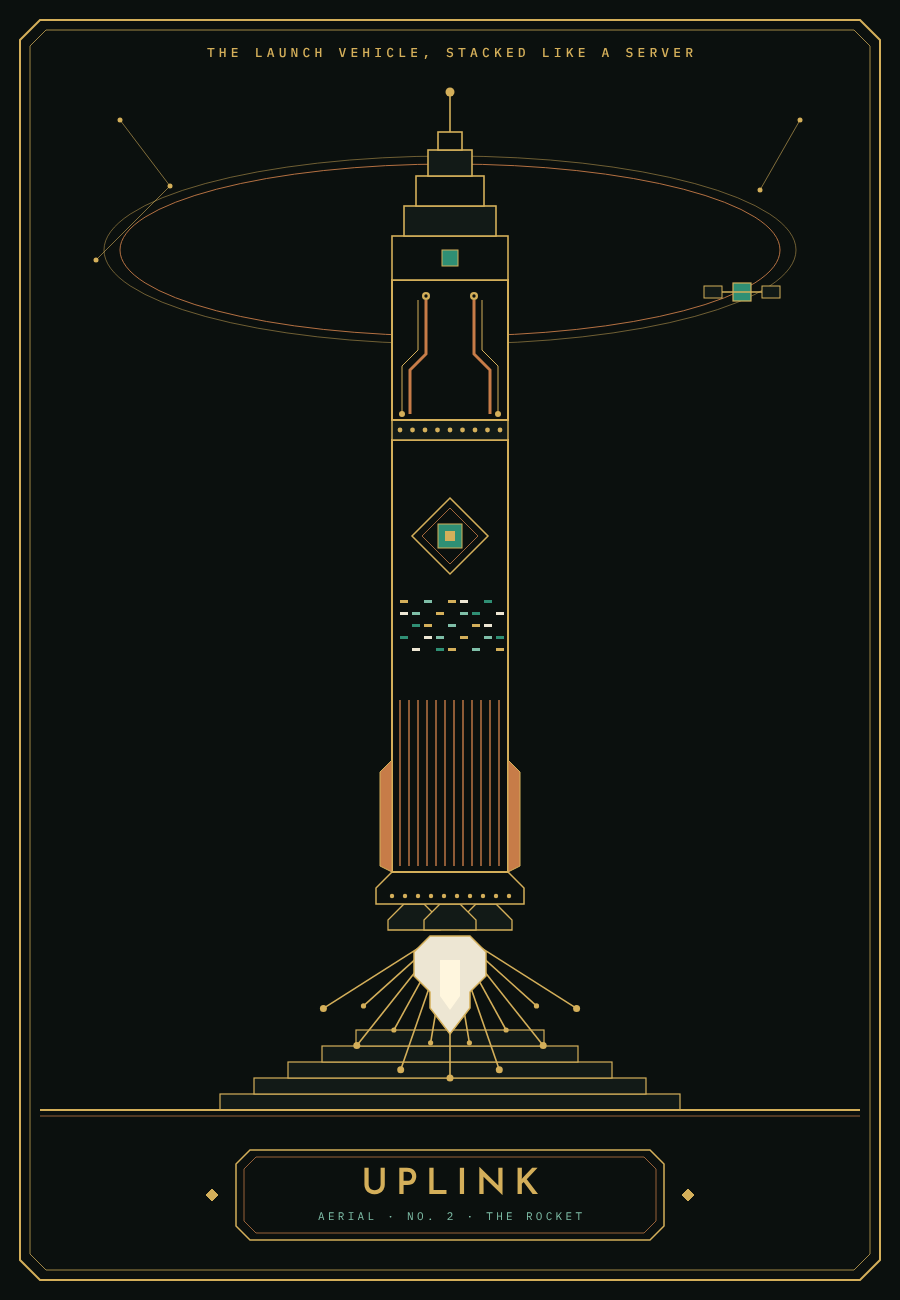
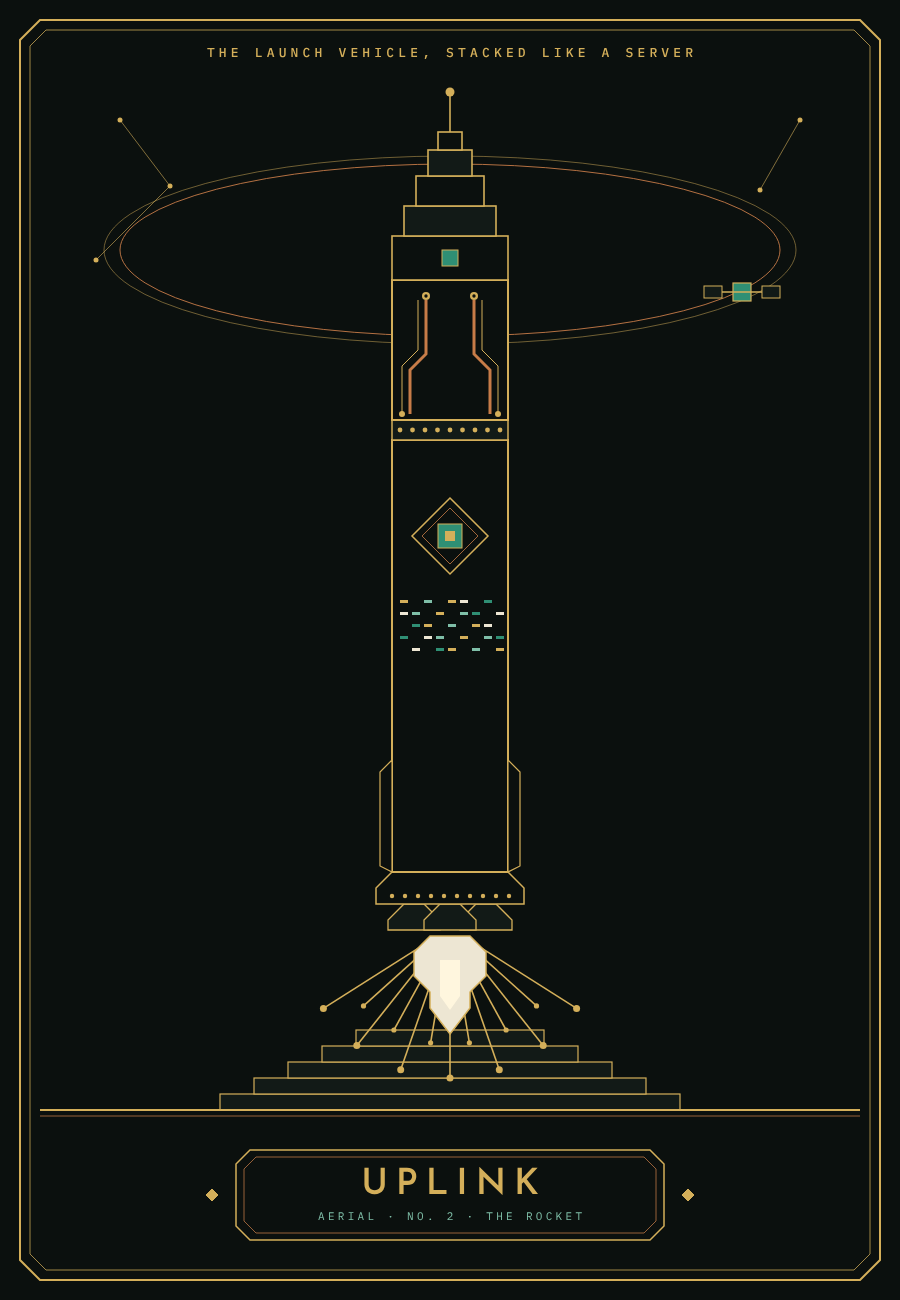
Uplink: a plain black first stage
No copper flutes; the folded legs are black, edged in gold. Code-built
rocket and design board both.

Claude-Session: https://claude.ai/code/session_01A6Jj3xDDNxQ4ycFxda9Tv7

Changed region(s): [[0.4044, 0.5231, 0.5911, 0.6769]]

diff --git a/web/src/scene/Craft.tsx b/web/src/scene/Craft.tsx
@@ -125,15 +125,13 @@ function uplinkParts(): Parts {
     const a = (k / 20) * Math.PI * 2;
     p.gold.push(new SphereGeometry(0.16, 6, 4).translate(Math.cos(a) * 2.95, 2.2, Math.sin(a) * 2.95));
   }
-  // First stage: heat-sink flutes, folded legs, a band of server lights, the die emblem.
+  // First stage: plain black, folded legs, a band of server lights, the die emblem.
   p.hull.push(cyl(r, r, 34, 3));
-  for (let k = 0; k < 28; k++) {
-    const a = (k / 28) * Math.PI * 2;
-    p.copper.push(box(0.14, 11, 0.14, Math.cos(a) * (r + 0.04), 9, Math.sin(a) * (r + 0.04)));
-  }
+  // Folded landing legs: black strakes edged in gold.
   for (let k = 0; k < 4; k++) {
     const a = (k / 4) * Math.PI * 2 + Math.PI / 4;
-    p.copper.push(box(0.5, 8, 1.1).rotateY(-a).translate(Math.cos(a) * (r + 0.25), 7.5, Math.sin(a) * (r + 0.25)));
+    p.hull.push(box(0.5, 8, 1.1).rotateY(-a).translate(Math.cos(a) * (r + 0.25), 7.5, Math.sin(a) * (r + 0.25)));
+    p.gold.push(box(0.56, 8, 0.12).rotateY(-a).translate(Math.cos(a) * (r + 0.27), 7.5, Math.sin(a) * (r + 0.27)));
   }
   for (let row = 0; row < 4; row++)
     serverRow(p, 36, (g, i) => ((i * 3 + row * 5) % 7 < 4 ? g.scale(0.5, 0.18, 0.08).translate(0, 0, r + 0.02).rotateY((i / 36) * Math.PI * 2).translate(0, 24 + row * 0.55, 0) : null));
